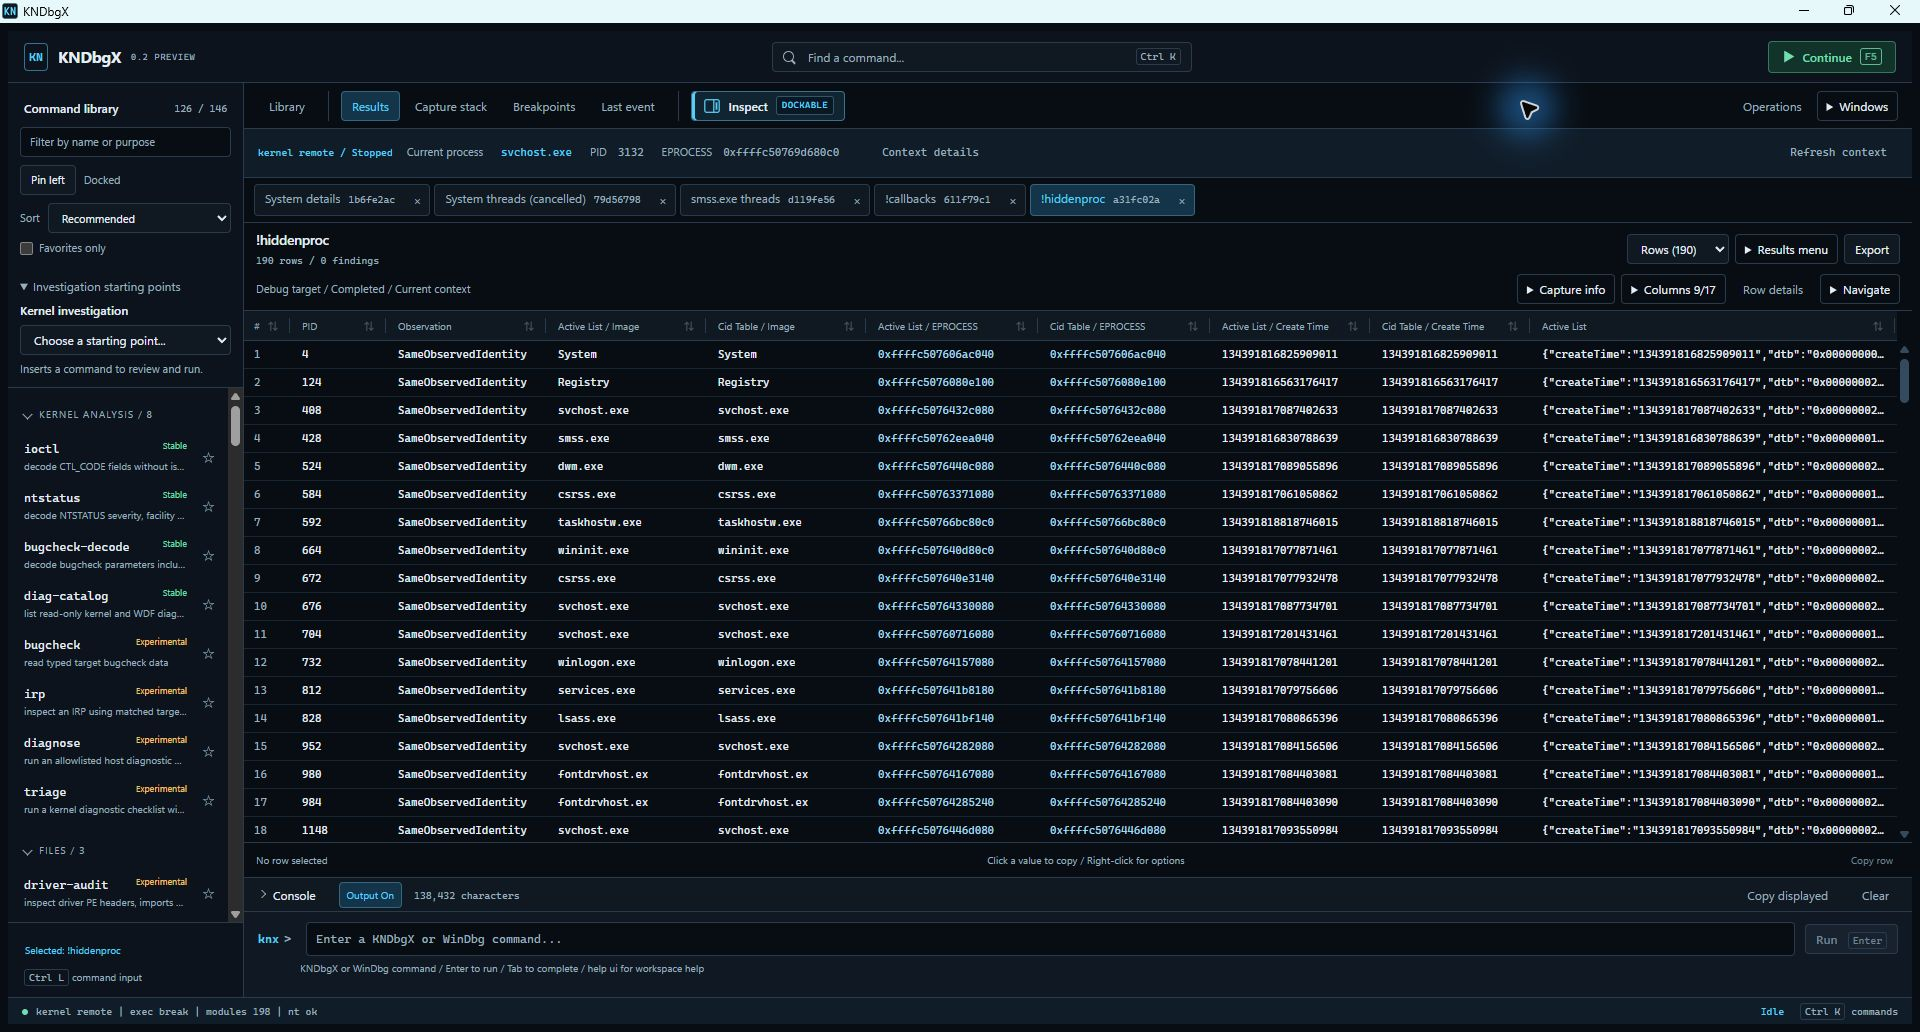
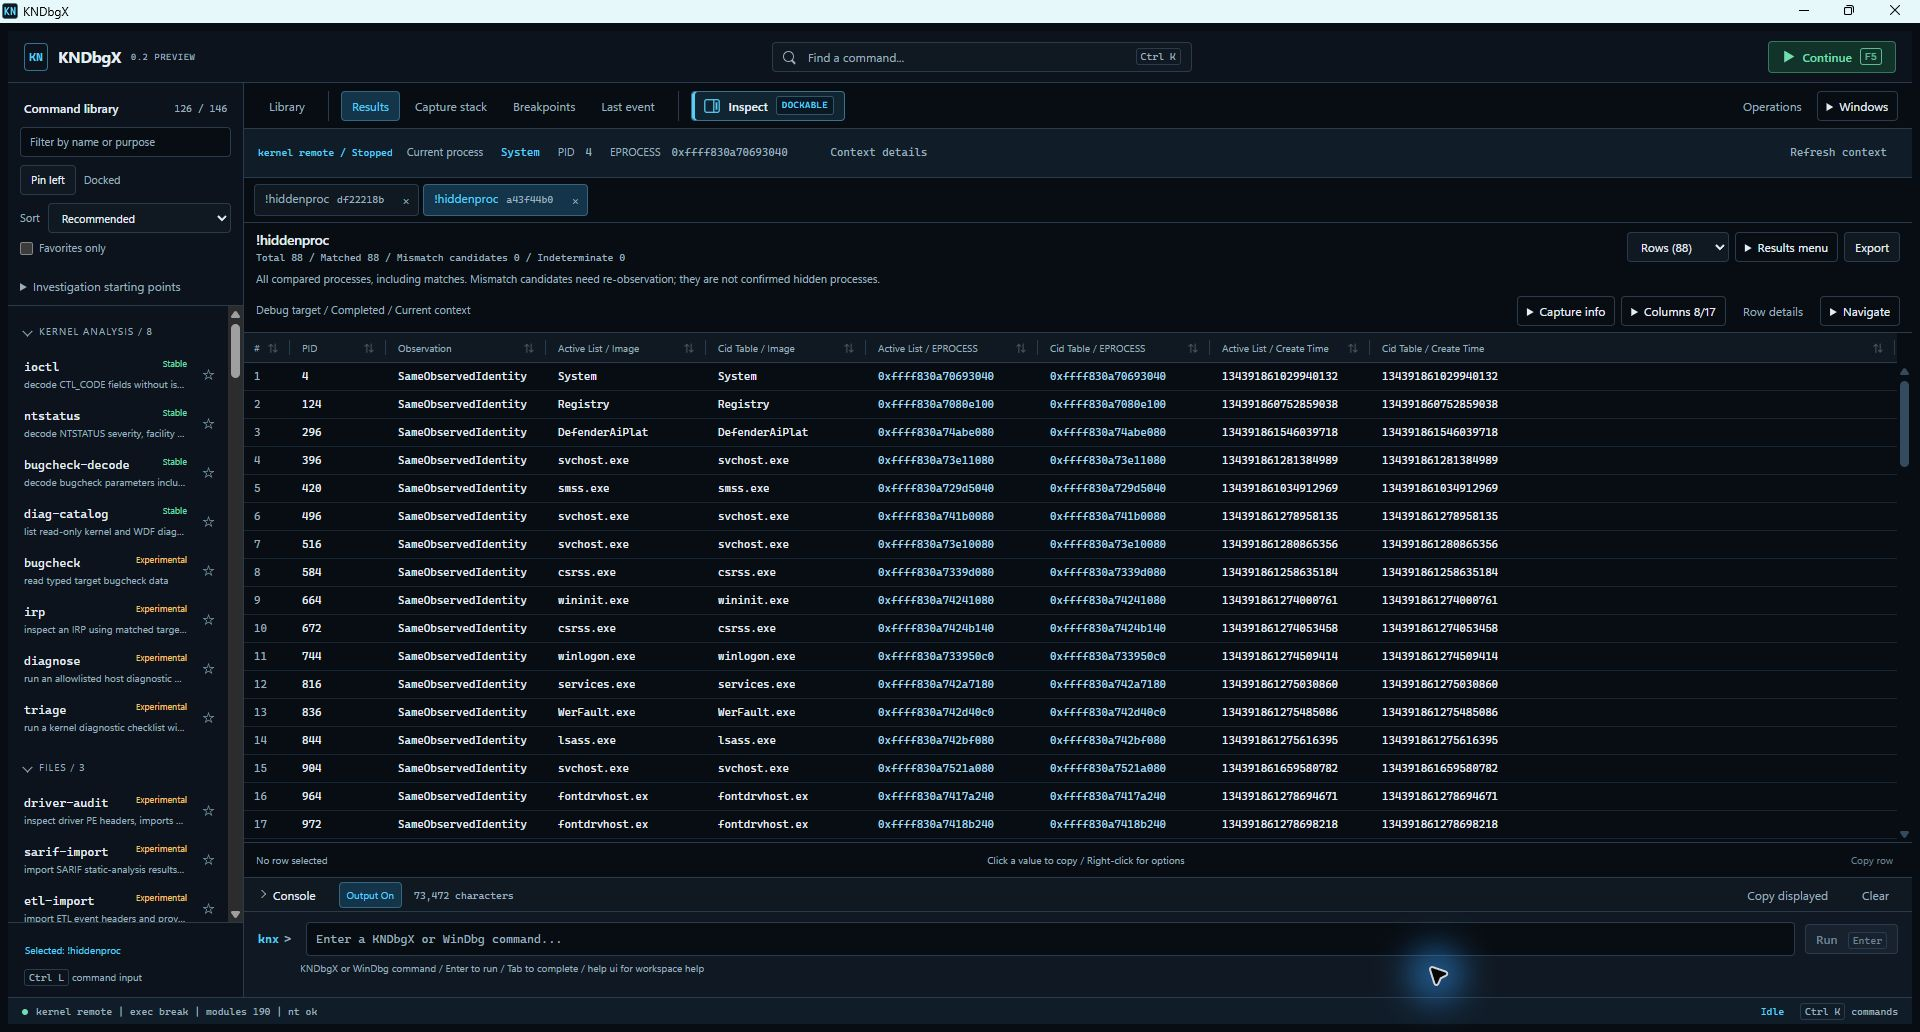
Refresh process comparison screenshots and usage captions
Replace the old cross-view capture with the current !hiddenproc summary UI.
Document the verified 88 total / 88 matched / 0 mismatch candidates /
0 indeterminate result and explain the four counters before row inspection.

diff --git a/docs/UX.md b/docs/UX.md
@@ -35,11 +35,12 @@ A null optional callback is different from an unreadable callback. Missing layou
 
 1. Stop a supported x64 kernel target and find `!hiddenproc` in the command palette.
 2. Select **Run**. On remote live KD, KNDbgX compares the target's active process list with its CID table.
-3. Compare **Observation**, the two image names, EPROCESS values and creation times. Select a row and open **Row details** for its complete records; **Export** preserves the full comparison.
+3. Read **Total**, **Matched**, **Mismatch candidates** and **Indeterminate** in the result header before inspecting individual rows.
+4. Compare **Observation**, the two image names, EPROCESS values and creation times. Select a row and open **Row details** for its complete records; **Export** preserves the full comparison.
 
-![Active process list and target CID table compared in Results](screenshots/process-cross-view.jpg)
+![Process cross-view with separate total, matched, mismatch candidate and indeterminate counts](screenshots/process-cross-view.jpg)
 
-This screenshot contains 190 total comparison rows, including matching processes; it does not show 190 hidden processes. The visible rows report **SameObservedIdentity**.
+This live VMware capture completed with **Total 88 / Matched 88 / Mismatch candidates 0 / Indeterminate 0**. All 88 rows report **SameObservedIdentity**; the active-list and CID entries agree on EPROCESS and creation time. Total includes matching processes and is not a hidden-process count.
 
 The result header separates **Total**, **Matched**, **Mismatch candidates** and **Indeterminate** for the complete retained comparison, independently of table paging or sorting. Matches have the same observed identity in both views. Candidates include one-view-only observations with known identities and differing identities for the same PID; they require re-observation and do not confirm hiding. Missing identities, incomplete opposing views and unknown observation types are indeterminate. Older captures without a count breakdown display **Unavailable**, not zero.
 

diff --git a/README.md b/README.md
@@ -28,9 +28,9 @@ Run `!minifilter` (alias `!fltmgr`) to inspect filter identities, altitudes and 
 
 Find `!hiddenproc` in **Library / Ctrl+K** and run it on a stopped, supported kernel target. Remote KD compares the active process list with the target's CID table, keeping both identities and the comparison outcome in one table. **Row details** shows the original fields; **Export** saves the retained comparison.
 
-![All compared processes, including matching active-list and CID identities](docs/screenshots/process-cross-view.jpg)
+![Process cross-view summary: 88 total, 88 matched, 0 mismatch candidates and 0 indeterminate](docs/screenshots/process-cross-view.jpg)
 
-*Process cross-view: 190 total comparison rows, including matching processes. The visible rows show `SameObservedIdentity`; this is not a count of hidden processes.*
+*This capture shows Total 88 / Matched 88 / Mismatch candidates 0 / Indeterminate 0. Total includes matching processes; all 88 collected rows report the same observed identity in both views.*
 
 ### More investigation workflows
 
